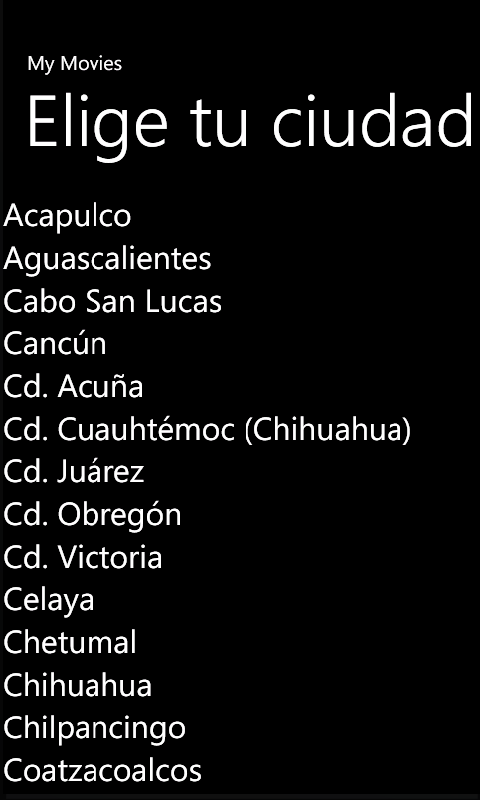
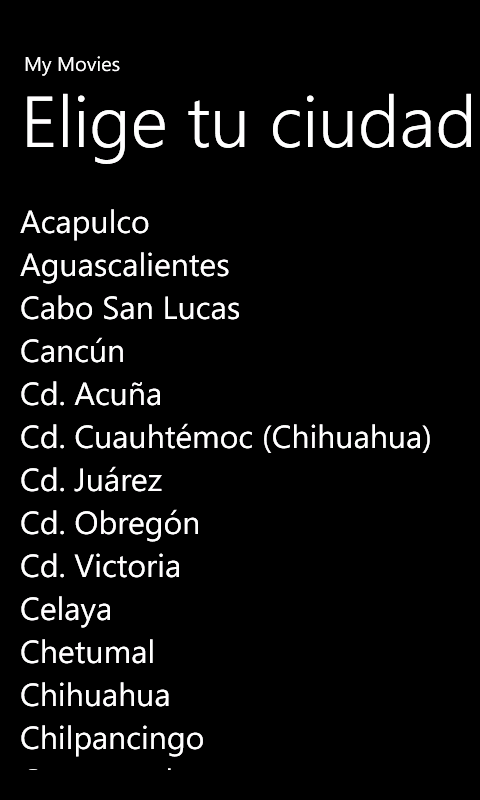
Version 1.0 Release to Marketplace
Corrected time format
Modified images for Marketplace
Added new screenshots
Added README
Deleted unused appbar icons

diff --git a/Konz.MyMovies.UI/CitySelect.xaml b/Konz.MyMovies.UI/CitySelect.xaml
@@ -27,7 +27,7 @@
         </StackPanel>
 
         <!--ContentPanel - place additional content here-->
-        <ListBox ItemsSource="{Binding}" Grid.Row="1" SelectionChanged="ListBox_SelectionChanged">
+        <ListBox ItemsSource="{Binding}" Grid.Row="1" SelectionChanged="ListBox_SelectionChanged" Margin="25,5,0,30">
             <ListBox.ItemTemplate>
                 <DataTemplate>
                     <TextBlock Text="{Binding Name}" FontSize="{StaticResource PhoneFontSizeLarge}" TextWrapping="Wrap" ></TextBlock>

diff --git a/Konz.MyMovies.Core/Core/Utils.cs b/Konz.MyMovies.Core/Core/Utils.cs
@@ -25,7 +25,7 @@ namespace Konz.MyMovies.Core
 
         public static string GetTimeFormat(DateTime time)
         {
-            return time.ToString(@"h:mmt\m");
+            return time.ToString(@"h:mmt\m").ToLower();
         }
 
         public static string GetMessage(Error error)
